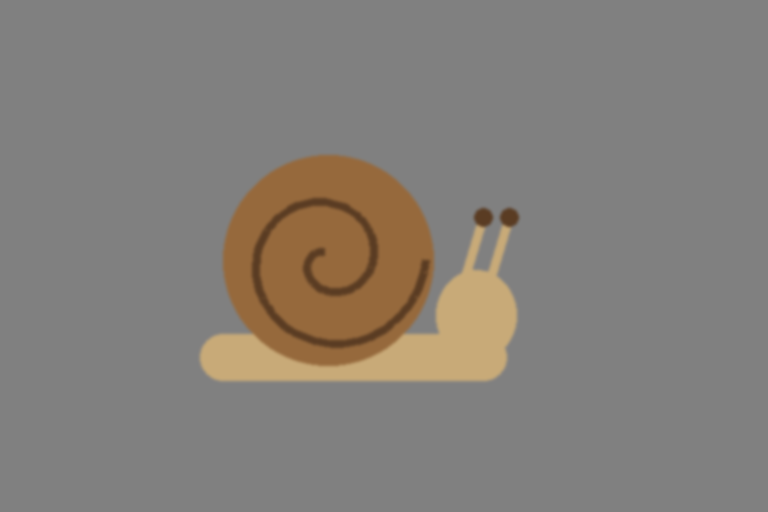
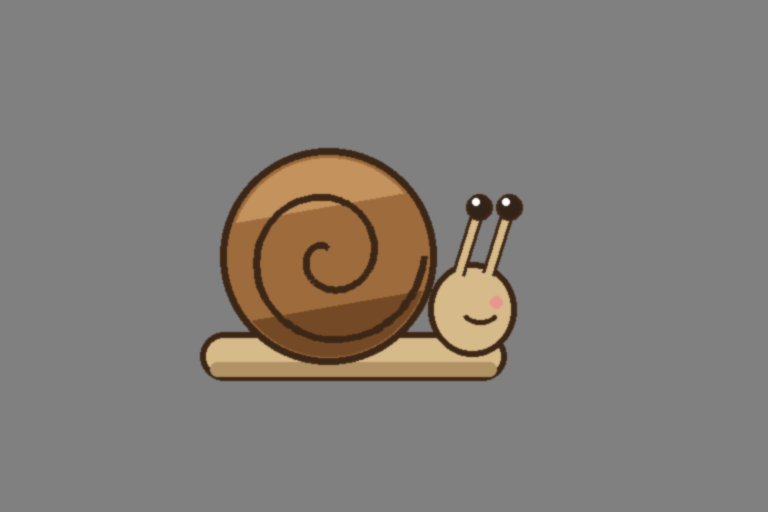
Story art: starts and masks for the lead's last card fixes (the Drake's cups on a rock, an acorn and a needle-and-thread on the signs) and a painted-style snail start
Claude-Session: https://claude.ai/code/session_01FhBbYMSNFxnWxPbZJPdRan

Changed region(s): [[0.25, 0.2812, 0.6875, 0.75]]

diff --git a/tools/art/storyart/make_spec.py b/tools/art/storyart/make_spec.py
@@ -642,6 +642,34 @@ def round6(commit):
             'repo': f'https://raw.githubusercontent.com/mshaffe1111/Sloths-Adventure-/{commit}/', 'keep': [x['name'] for x in it]}
 
 
+FIX = {'magma-drake': 'two used china teacups with saucers standing on a flat dark rock beside the dragon, lit warm orange by the lava glow, a ring of tea in each, thin steam rising, painted at the same scale as the scene',
+       'squirrels': 'a hand-made wooden sign board on a post with a carved and painted acorn symbol in the middle, rough painted wood grain',
+       'pell': 'a crooked hanging wooden shop sign on two ropes with a painted needle and red thread symbol, rough painted wood grain'}
+
+
+def round7(commit):
+    """the lead's last three fixes: the Drake's cups painted into the scene, the two signs carry a painted symbol (no fake writing), and
+    the snail painted the way the game's creatures are (outline, shading, a face), two frames"""
+    it = []
+    for k, words in FIX.items():
+        for st, sd in (((0.72, 4), (0.84, 9)) if k == 'magma-drake' else ((0.58, 4), (0.68, 9))):
+            it.append({'name': f'card-{k}-v{round(st * 100)}', 'start': f'fix-{k}.png', 'mask': f'cardmask-{k}.png', 'strength': st, 'seed': sd,
+                       'w': 1920, 'h': 1080, 'loras': [['style', 0.9]],
+                       'prompt': f'slothadv style, painted storybook illustration, {words}, crisp clean outlines, rich painted detail',
+                       'neg': 'text, letters, words, writing, zigzag, signature, watermark, flat clip art, vector, photo, 3d render, blurry'})
+    for f in ('stretch', 'bunch'):
+        for st, sd in ((0.5, 3), (0.6, 6)):
+            it.append({'name': f'snail-{f}-v{round(st * 100)}', 'start': f'snail-{f}.png', 'strength': st, 'seed': sd, 'w': 768, 'h': 512, 'loras': [['style', 1.0]],
+                       'prompt': ('slothadv style, painted storybook illustration of one small friendly garden snail seen from the side facing right, a '
+                                  'soft garden brown spiral shell with painted shading and highlights, a pale tan body ' + ('stretched out long as it creeps'
+                                  if f == 'stretch' else 'bunched up short as it creeps') + ', two eye stalks with shiny eyes, a small content smile, '
+                                  'crisp clean dark outlines, soft cel shading, plain flat grey background'),
+                       'neg': 'text, background scenery, ground, floor, shadow, slime trail, blurry, flat vector, clip art, extra eyes, two snails'})
+    base = f'https://raw.githubusercontent.com/mshaffe1111/Sloths-Adventure-/{commit}/tools/art/hfbatch/starts/storyart/'
+    return {'tag': 'r7', 'loras': {'style': LORAS['style']}, 'base': base, 'items': it, 'q': 90,
+            'repo': f'https://raw.githubusercontent.com/mshaffe1111/Sloths-Adventure-/{commit}/', 'keep': [x['name'] for x in it]}
+
+
 def args(name, commit):
     raw = f'https://raw.githubusercontent.com/mshaffe1111/Sloths-Adventure-/{commit}/tools/art/storyart'
     get = (f'mkdir -p /out/storyart/jobs && curl -fsSL {raw}/storygpu.py -o /out/storyart/jobs/storygpu.py && '
